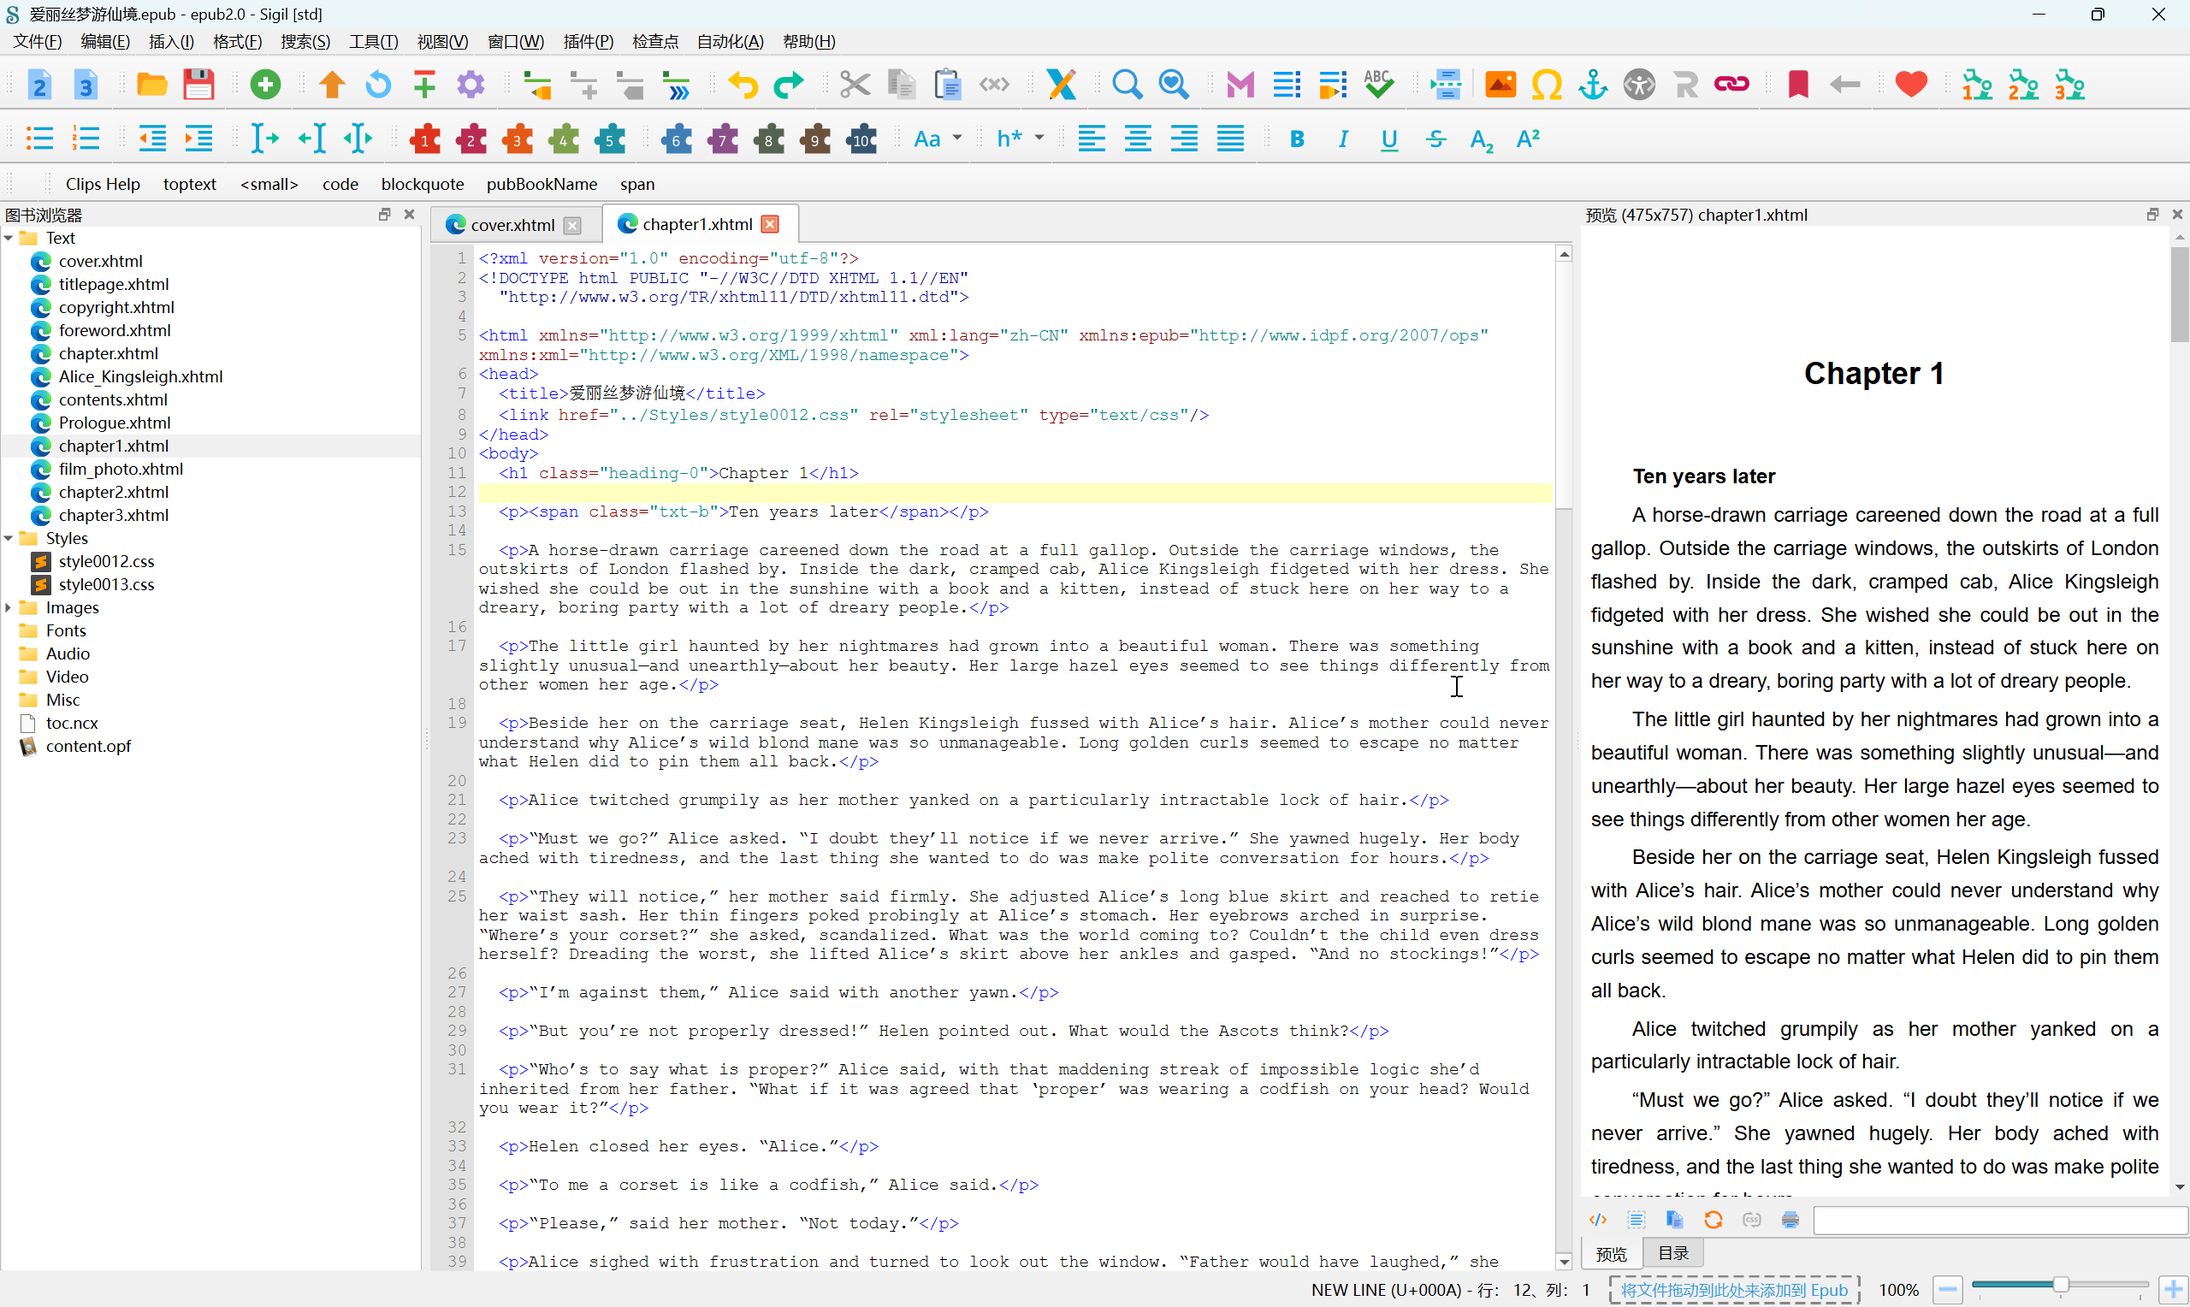
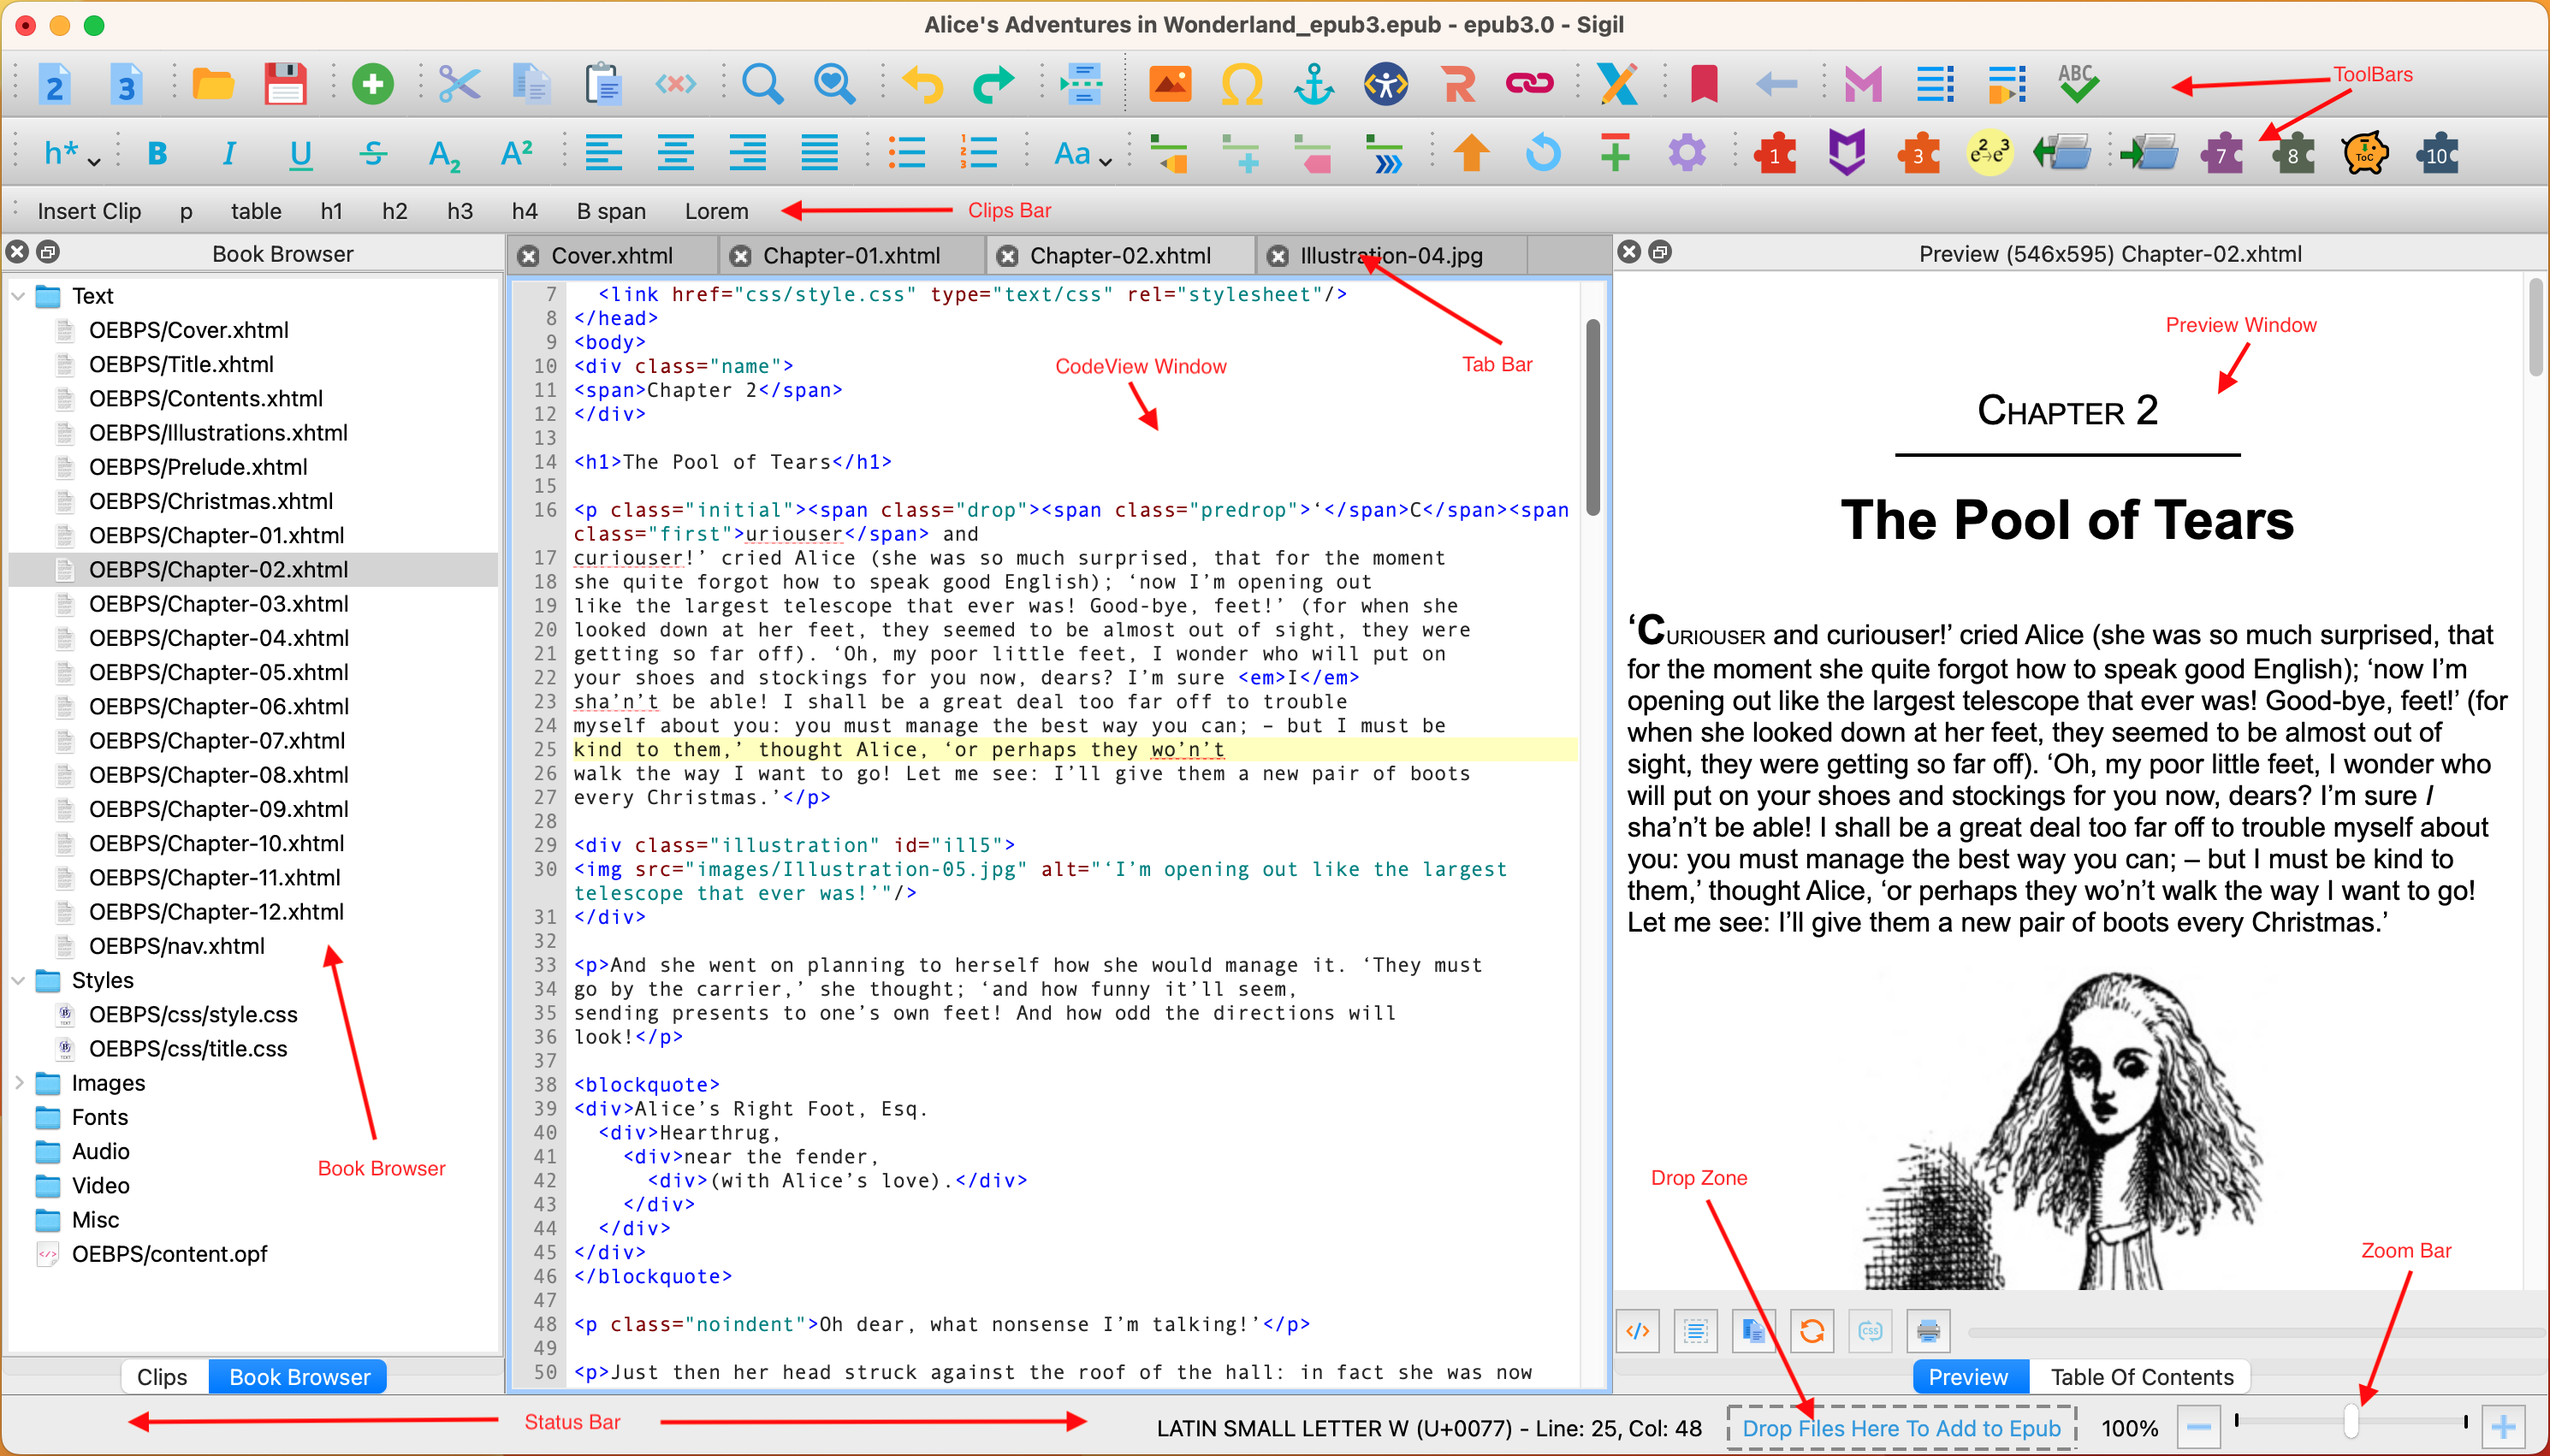
依英文版 Sigil User Guide 2026.11.01 同步更新（2.8.5）
- 版本号统一为 2.8.5：标题页、前言、版权年份、安装包示例名
- 安装章节改写 Linux 安装方式（AppImage），macOS 最低版本改为 13
- 新特性补充 Qt6.10.2、Python 3.14.2 及四项新增功能
- 环境变量新增 SIGIL_ONLY_USE_LANGCODES；封面模板 SVG 补 href
- 特殊字符新增“高级用户”自定义 special_characters.xml 小节
- 首选项新增 prettyprint.xml、replace_funtions.json、special_characters.xml 条目
- 自动化列表改为通过“管理自动化列表”对话框管理，运行方式增加“自动化=>运行”菜单
- 用户界面新增“重新开始当前搜索”“使用标准文件扩展名”、三条 NAV 阅读顺序工具、工具栏“自动化列表”、自动化菜单、状态栏拖放区与光标字符说明
- 正则教程示例改用 \s* 与 \s+；正则参考表中 \s 条目移至字符类
- 更新 7 张截图并新增 manage_automation_lists.png，移除被替代的 automate_open_editor.png
- 构建脚本默认版本号改为 2.8.5+

diff --git a/src/OEBPS/Styles/styles.css b/src/OEBPS/Styles/styles.css
@@ -50,7 +50,7 @@ div.toolbar {
 }
 
 img {
-    max-width: 100%;
+    max-width: 90%;
 }
 
 h1 {

diff --git a/tools/build_epub_zh.py b/tools/build_epub_zh.py
@@ -34,7 +34,7 @@ REPO_ROOT = os.path.dirname(os.path.dirname(os.path.abspath(__file__)))
 SRC_DIR = os.path.join(REPO_ROOT, "src")
 SKIP_BASENAMES = {"encryption.xml", "rights.xml", ".gitignore", ".gitattributes"}
 NAME_TEMPLATE = "Sigil 用户指南中文版（{version} {date}）.epub"
-DEFAULT_VERSION = "2.6.2+"
+DEFAULT_VERSION = "2.8.5+"
 
 CONTAINER_NS = {"c": "urn:oasis:names:tc:opendocument:xmlns:container"}
 OPF_NS = {"o": "http://www.idpf.org/2007/opf"}
